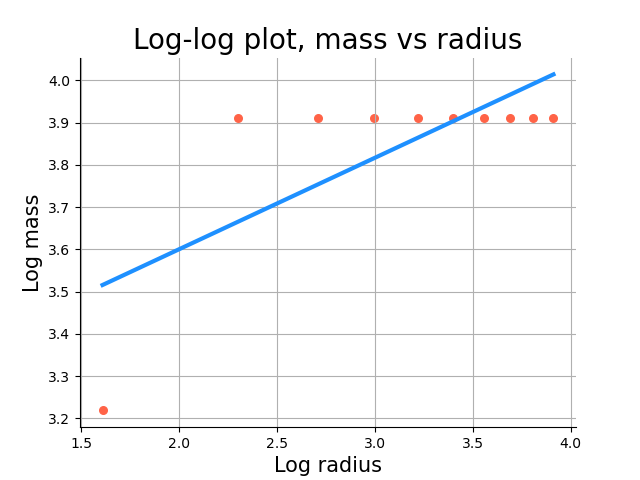
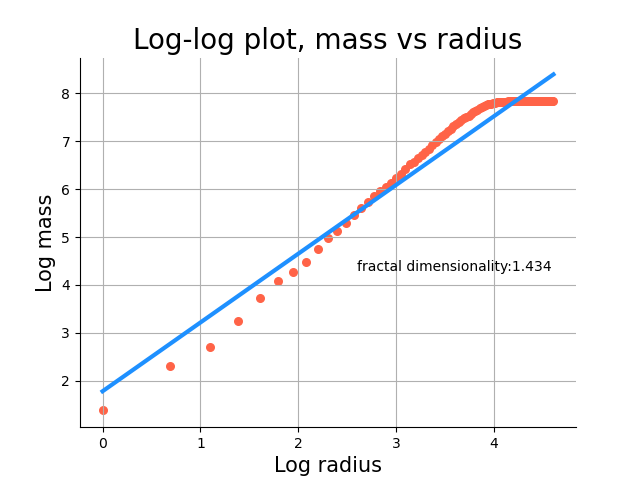
done with DLA fractal DImensionality
~rename fractaldimensionality.py to fractaldimensionalitydla.py

diff --git a/fractalDimensionalityDLA.py b/fractalDimensionalityDLA.py
@@ -4,14 +4,11 @@ TODO: implement a cluster with a fractal dimensionality of 1.99 and 1.65 and plo
 """
 import numpy as np
 import matplotlib.pyplot as plt
-
 def initialize_grid(size):
     return np.zeros((size, size), dtype=int)
-
 def is_valid_position(position, grid):
     x, y = position
     return 0 <= x < grid.shape[0] and 0 <= y < grid.shape[1]
-
 def random_walk(position, grid):
     while True:
         move = np.random.choice(['up', 'down', 'left', 'right'])
@@ -27,7 +24,6 @@ def random_walk(position, grid):
 
         if is_valid_position(new_position, grid):
             return new_position
-
 def get_perimeter_points(cluster):
     perimeter_points = []
     for x in range(cluster.shape[0]):
@@ -39,7 +35,6 @@ def get_perimeter_points(cluster):
                             if cluster[x+i, y+j] == 0:
                                 perimeter_points.append((x+i, y+j))
     return perimeter_points
-
 def add_particle(grid):
     perimeter_points = get_perimeter_points(grid)
 
@@ -54,7 +49,6 @@ def add_particle(grid):
         # Take this perimeter point and make grid[point] = 1
         grid[random_particle] = 1
         print("added another point: ",random_particle) # small progress tracker    
-
 def dla_cluster_growth(size, target_size):
     grid = initialize_grid(size)
     center = size // 2
@@ -68,12 +62,7 @@ def dla_cluster_growth(size, target_size):
        print("grid size is now: ", current_size)  # small progress tracker
 
     return grid
-
-def calculate_radius_vs_mass(grid, cluster_size, num_points, r_stops, grid_center):
-    def is_valid_position(position, grid):
-        x, y = position
-        return 0 <= x < grid.shape[0] and 0 <= y < grid.shape[1]
-
+def calculate_radius_vs_mass(grid, size_of_grid, r_stops, grid_center):
     def get_cluster_mass_within_radius(grid, center, radius):
         mass = 0
         for x in range(grid.shape[0]):
@@ -87,23 +76,26 @@ def calculate_radius_vs_mass(grid, cluster_size, num_points, r_stops, grid_cente
     radius_vs_mass = []
 
     for i in range(1, r_stops + 1):
-        radius = i * cluster_size / r_stops
+        radius = i *  size_of_grid / r_stops
         mass_within_radius = get_cluster_mass_within_radius(grid, grid_center, radius)
         radius_vs_mass.append((radius, mass_within_radius))
 
     return radius_vs_mass
 
 # modify these points to get a bigger/smaller grid
-size_of_grid = 20
-target_dla_size = 50
+size_of_grid = 100
+target_dla_size = 2500
+#leave this generation code if you need it, but i used the data file to save time. 
 dla_resulting_table = dla_cluster_growth(size_of_grid, target_dla_size)
+#save the grid so you dont have to regenerate it each time. 
+np.save("dla_resulting_table.npz", dla_resulting_table) 
 #prepare for the r vs m table
 grid_center = (size_of_grid // 2, size_of_grid // 2)
 cluster_size = target_dla_size
 num_points = target_dla_size
-r_stops = 10
+r_stops = 100
 # make the table
-radius_vs_mass_table = calculate_radius_vs_mass(np.array(dla_resulting_table), cluster_size, num_points, r_stops, grid_center)
+radius_vs_mass_table = calculate_radius_vs_mass(np.array(dla_resulting_table),size_of_grid, r_stops, grid_center)
 radius, mass = zip(*radius_vs_mass_table)
 
 #Find Log of all the arrays
